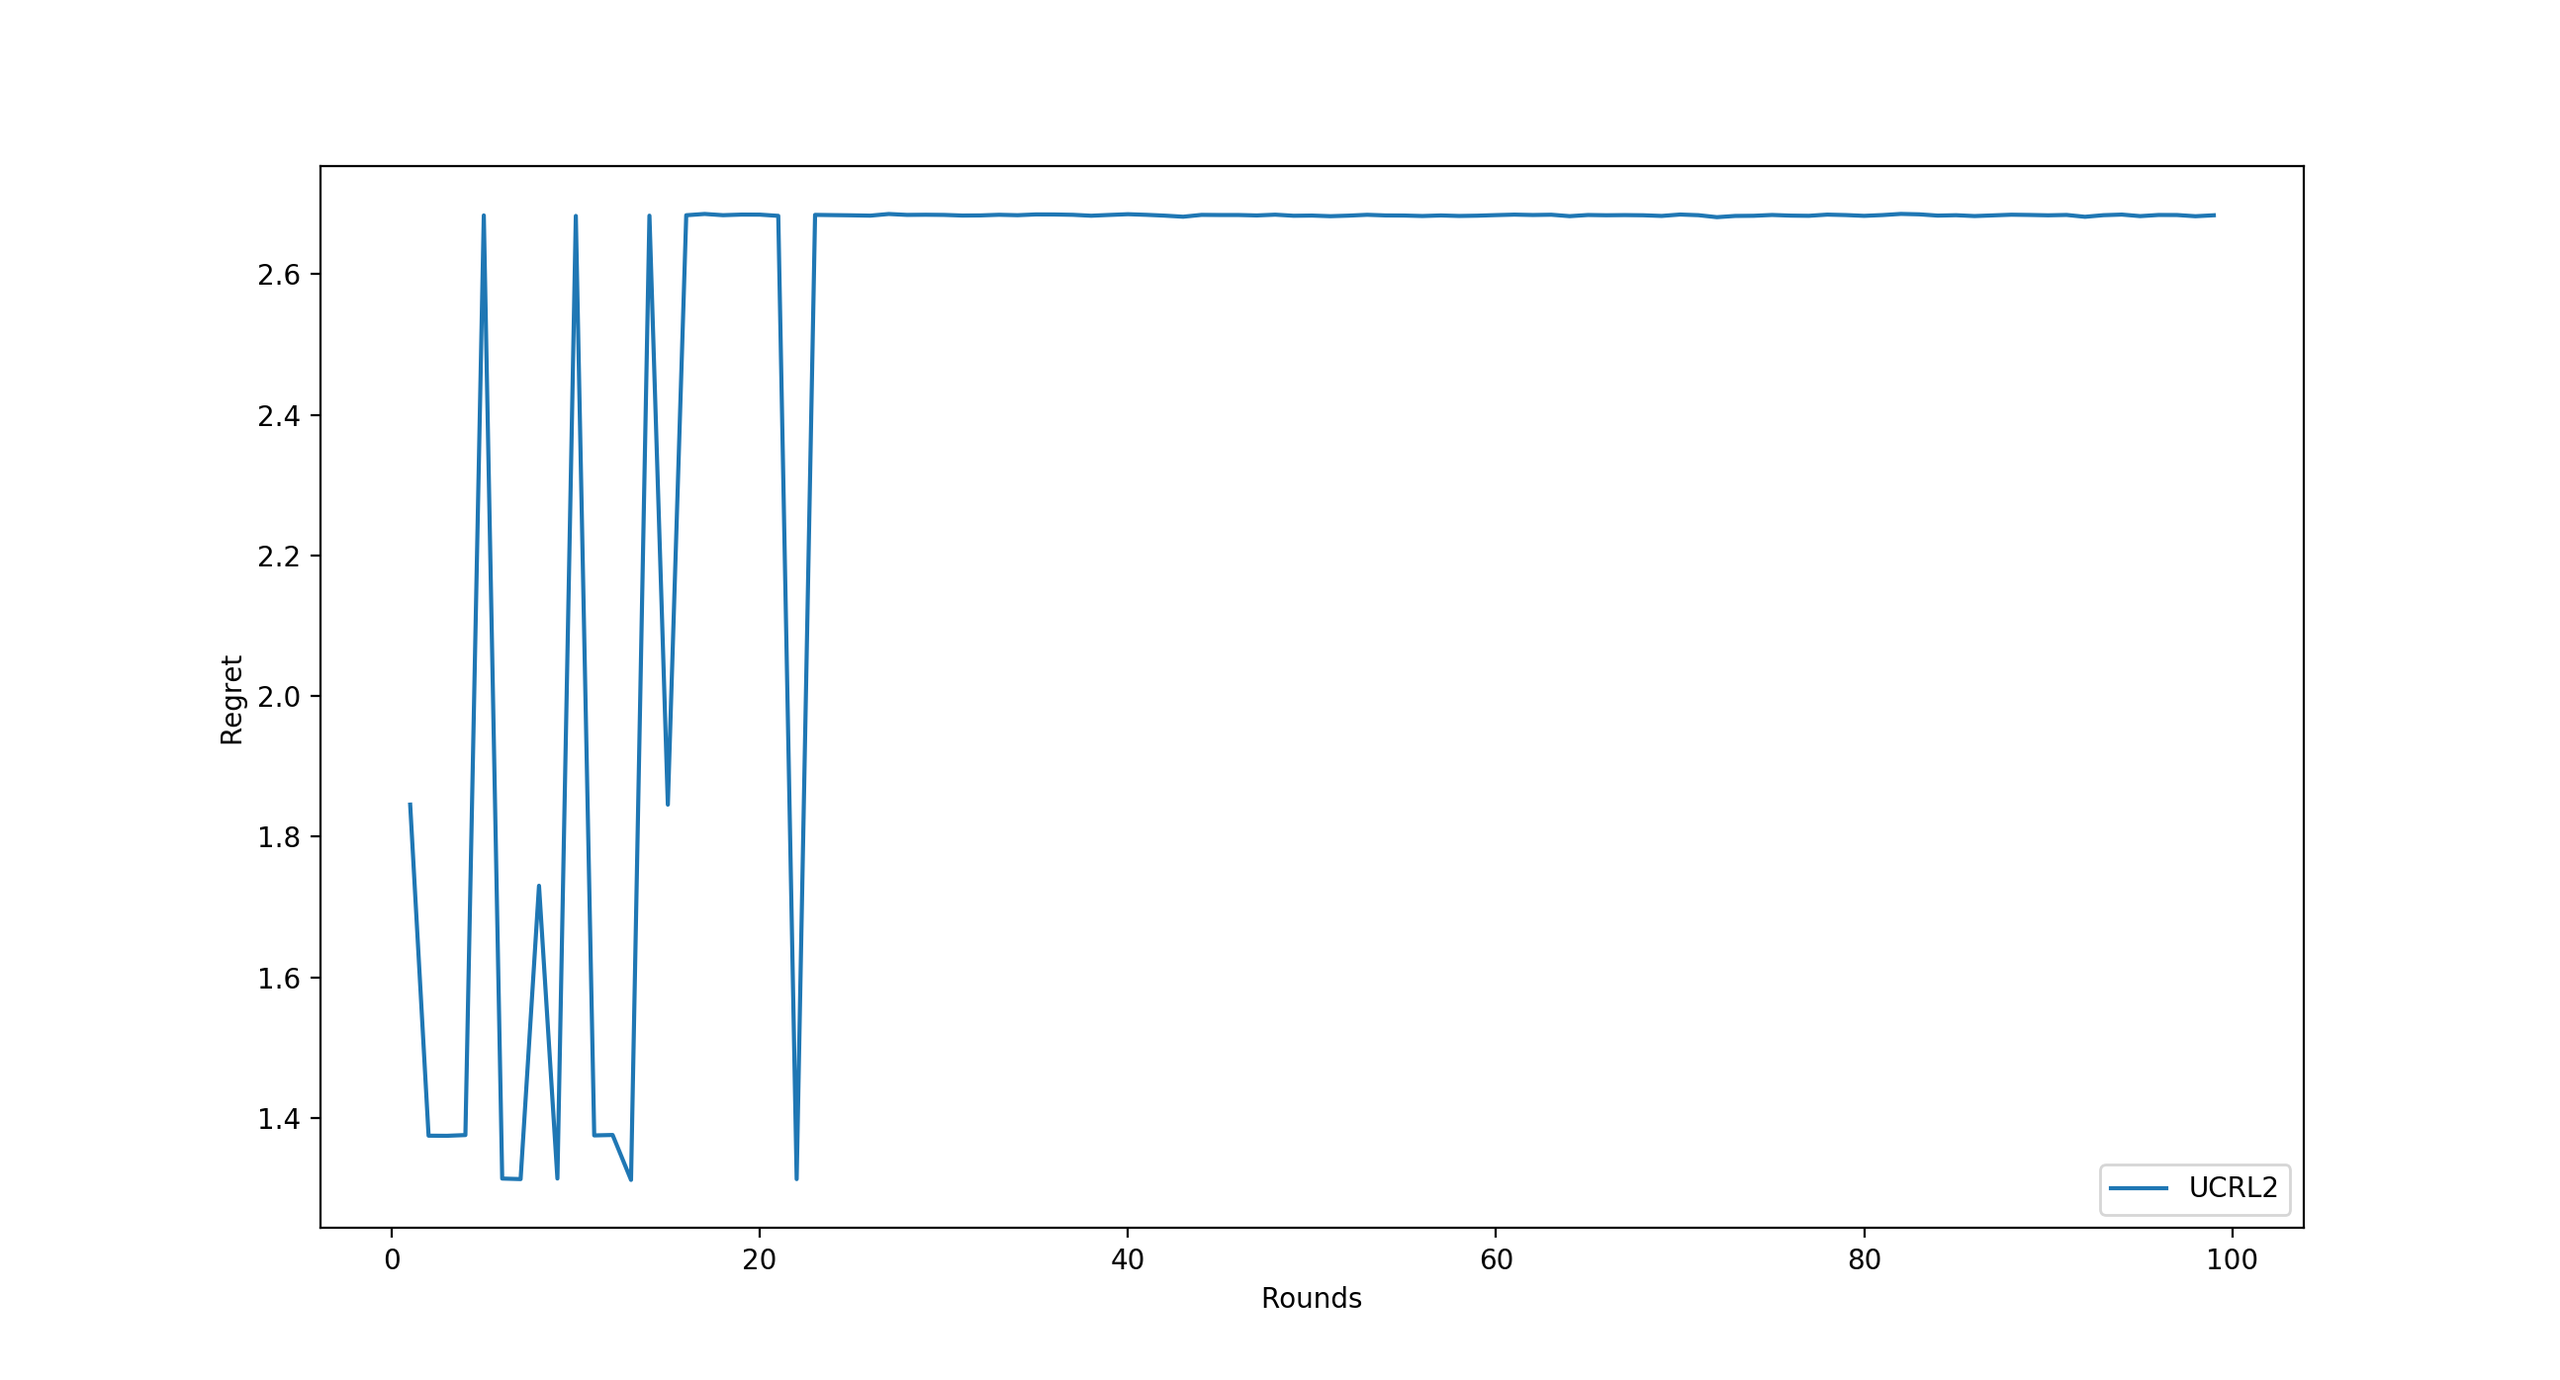
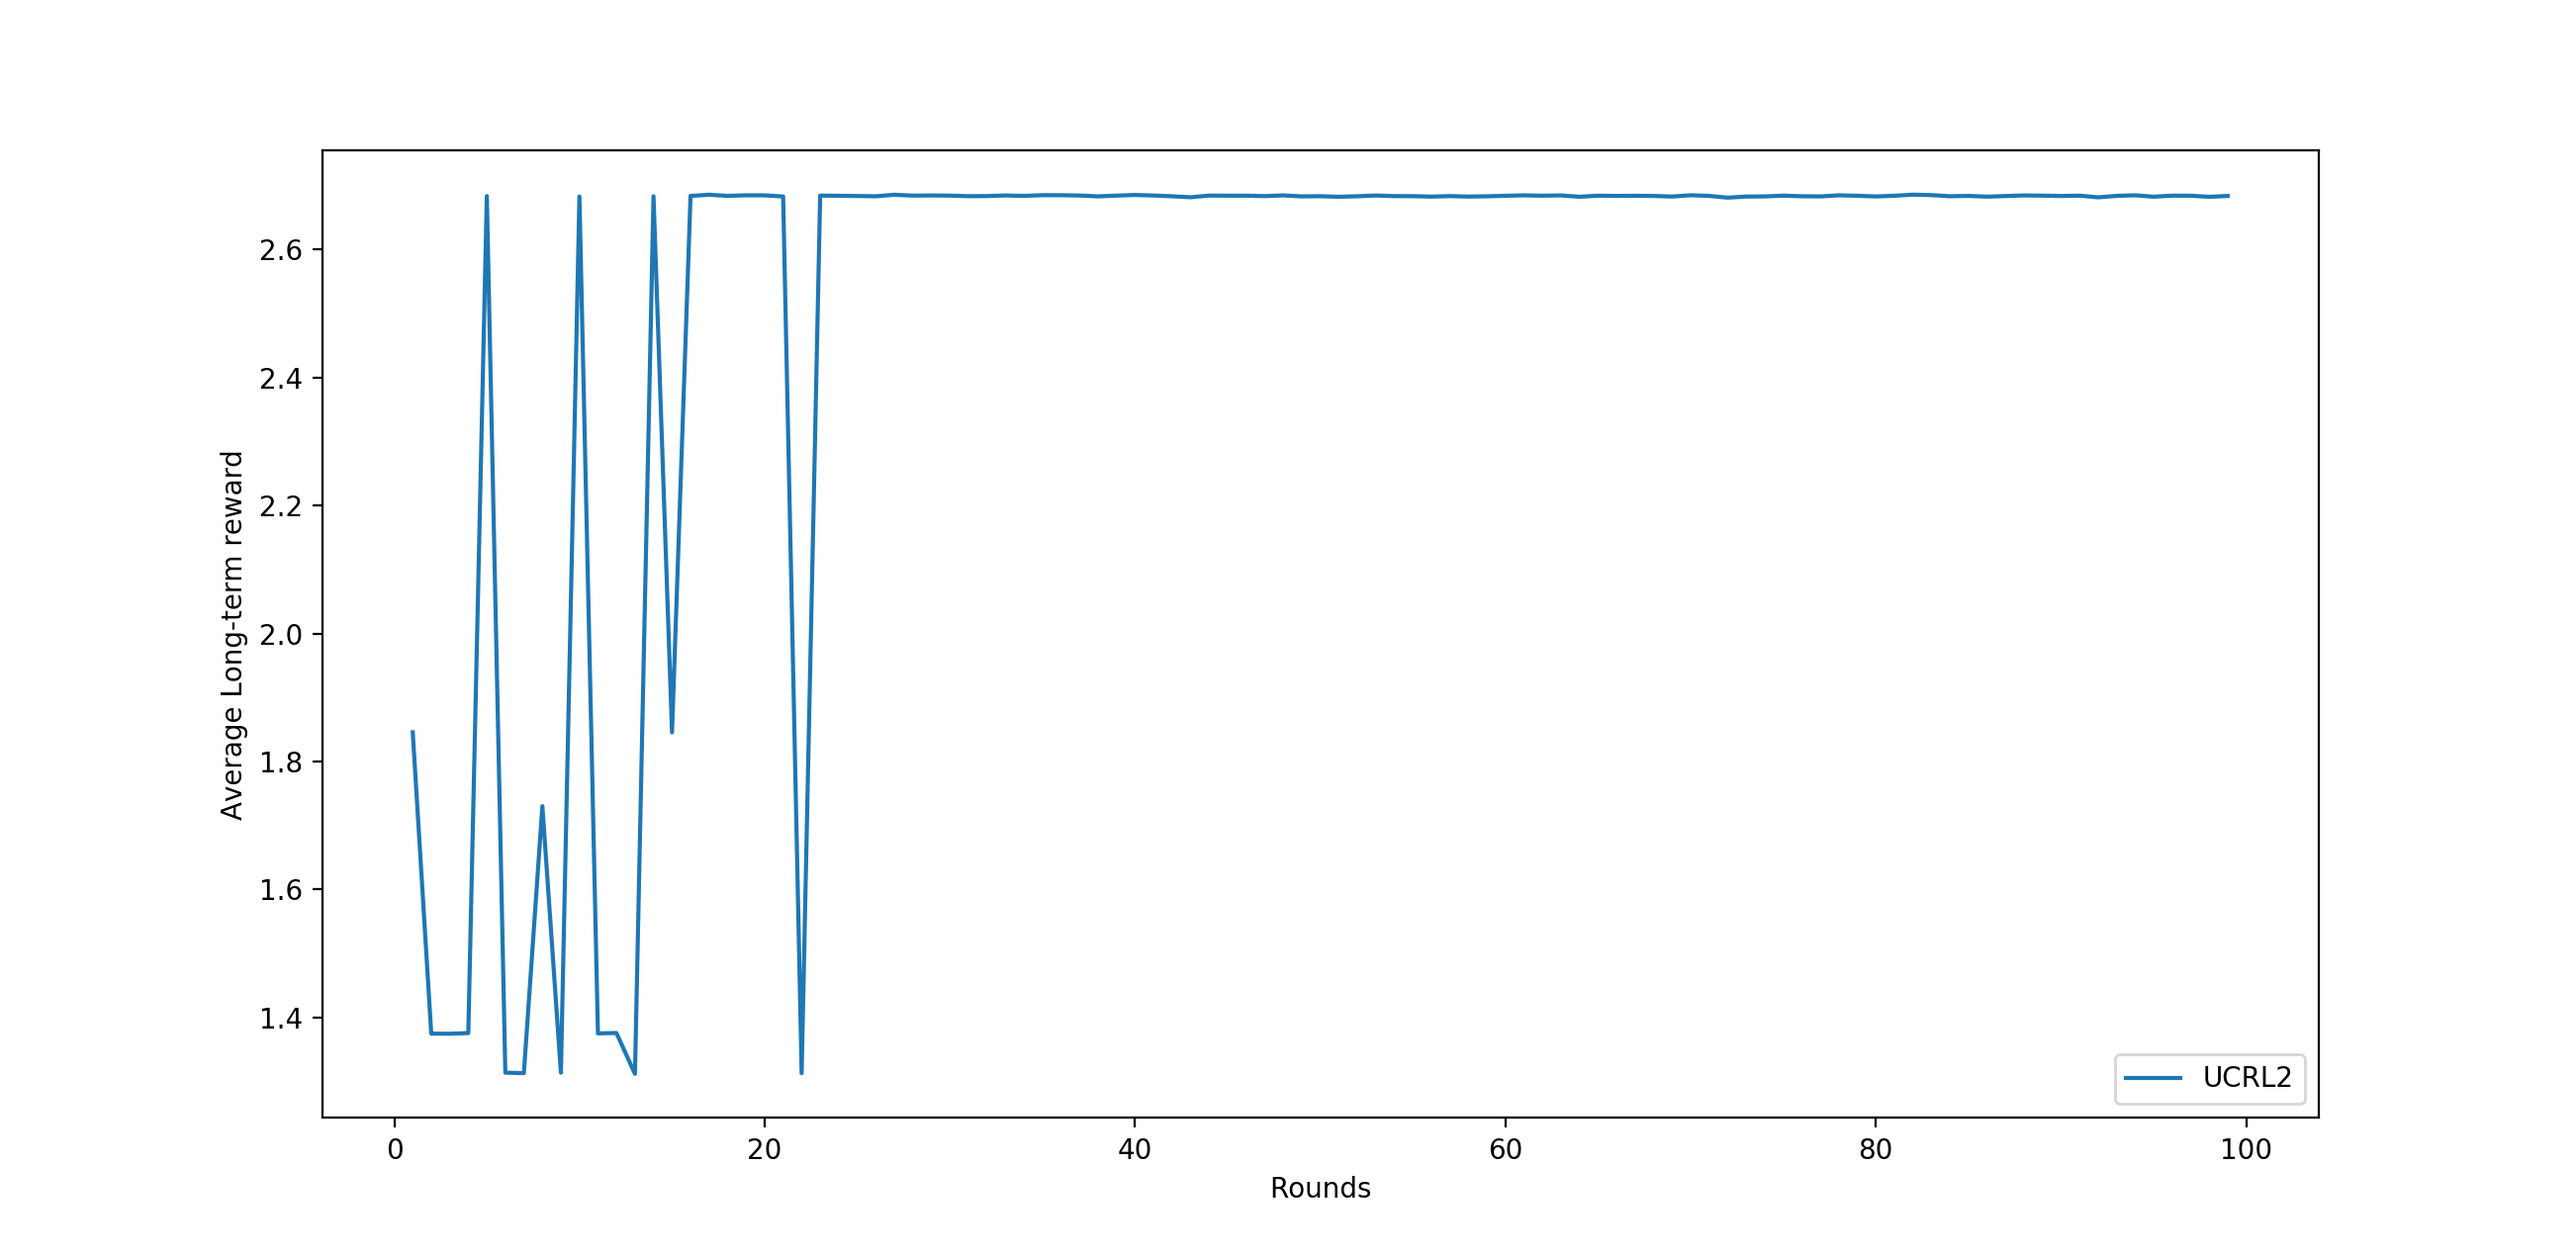
Clean up code and run it

diff --git a/code/algos.py b/code/algos.py
@@ -1,13 +1,7 @@
 """
-This is a collection of some of the classic benchmark algorithms for efficient
-reinforcement learning
-We provide implementations of:
+Implementation of PSRL and UCRL2
 
-- PSRL
-- UCRL2
-
-author: iosband@stanford.edu
-author: Ronan Fruit
+Used Ian Osband and Ronan Fruit's code
 Edit : Jules Kozolinsky
 """
 
@@ -15,33 +9,18 @@ import numpy as np
 import math as m
 import time
 
-def argmax(seq, fn):
-    best = seq[0]; best_score = fn(best)
-    for x in seq:
-        x_score = fn(x)
-        if x_score > best_score:
-            best, best_score = x, x_score
-    return best
 
 class Agent:
     """
-    Simple tabular Bayesian learner from Tabula Rasa.
-
-    Child agents will mainly implement:
-        update_policy
+    Learning Agent (Childs: UCRL2 and PSRL)
     """
 
     def __init__(self, env, r_max):
         """
-        Args:
-            env: environment
-            r_max - maximum reward
-            # alpha0 - prior weight for uniform Dirichlet
-            # mu0 - prior mean rewards
-            # tau0 - precision of prior mean rewards
+        Initialize our learning agent
 
-        Returns:
-            Learner
+        :param env: RL environment
+        :r_max: upper bound of environment reward
         """
         self.n_states = env.n_states
         self.n_actions = env.n_actions
@@ -52,8 +31,11 @@ class Agent:
         self.iteration = 0
         self.delta = 1
 
+        # mu0 - prior mean rewards
         self.mu0 = self.r_max + 99.
+        # tau0 - precision of prior mean rewards
         self.tau0 = 1.
+        # alpha0 - prior weight for uniform Dirichlet
         self.alpha0 = 1.
 
         # Now make the prior beliefs
@@ -65,26 +47,36 @@ class Agent:
                 self.P_prior[state, action] = (
                     self.alpha0 * np.ones(self.n_states, dtype=np.float32))
 
+        # Keep trace of number of observations
         self.nb_observations = np.zeros((n_states, n_actions), dtype=np.int64)
         self.nu_k = np.zeros((n_states, n_actions), dtype=np.int64)
 
         # initialize policy
         self.policy = np.zeros((n_states,), dtype=np.int_) # initial policy
-        self.rho_star = env.compute_LTAR(env.pi_star, 100000)
+
+        if hasattr(env, 'pi_star'):
+            self.rho_star = env.compute_LTAR(env.pi_star, 100000)
+        else:
+            print("Pi star is not known")
 
     def pick_action(self, state):
         """
         Use policy for action selection
+
+        :param state: current state in which we want to know the corresponding
+        action
+        :return: action from policy
         """
         action = self.policy[state]
         return action
 
-    def update_estimations(self, s, s2, r, absorb, t):
+    def update_models(self, s, s2, r, absorb):
         """
+        Update model during execution of policy
+
         :param s: current state
         :param s2: new state
         :param r: reward
-        :param t: timestep
         """
         a = self.policy[s]
 
@@ -104,17 +96,25 @@ class Agent:
         self.iteration += 1
 
     def execute_policy(self, env, max_duration):
+        """
+        Execute policy in the environment during max time of max_duration
+
+        :param env: given RL environment
+        :param max_duration: maximum execution time
+        """
+        # Initialize env
         state = env.reset()
         action = self.pick_action(state)
         t = 0
         while (self.nu_k[state][action] < max(1, self.nb_observations[state][action])\
                 and t < max_duration):
+            t += 1 # Avoid infinite loop
+
             # Step through the episode
             new_state, reward, absorb = env.step(state, action)
 
             # Update estimations at each step
-            t = env.timestep
-            self.update_estimations(state, new_state, reward, absorb, t)
+            self.update_models(state, new_state, reward, absorb)
             state = new_state
 
             # Select next action
@@ -170,9 +170,6 @@ class PSRL(Agent):
         """
         Returns a single sampled MDP from the posterior.
 
-        Args:
-            NULL
-
         Returns:
             R_samp - R_samp[s, a] is the sampled mean reward for (s,a)
             P_samp - P_samp[s, a] is the sampled transition vector for (s,a)
@@ -197,17 +194,13 @@ class PSRL(Agent):
 
         # Compute optimistic policy
         epsilon = self.delta # desired accuracy
-        t0 = time.time()
         span_value = self.value_iteration(P_samp, R_samp, epsilon)
-        t1 = time.time()
 
 #-----------------------------------------------------------------------------
 # UCRL2
 #-----------------------------------------------------------------------------
 
 class UCRL2(Agent):
-    """Classic benchmark optimistic algorithm"""
-
     def __init__(self, env, r_max):
         super(UCRL2, self).__init__(env, r_max)
         self.name = "UCRL2"
@@ -307,6 +300,9 @@ class UCRL2(Agent):
                 sorted_indices = np.argsort(u1)
 
     def estimated_mdp(self):
+        """
+        Returns estimated MDP from the prior.
+        """
         R_hat = {}
         P_hat = {}
         for s in range(self.n_states):

diff --git a/code/experiment.py b/code/experiment.py
@@ -1,6 +1,4 @@
-"""
-Script to run simple RL experiments.
-"""
+""" Implementation of an xperiment """
 
 import numpy as np
 import matplotlib.pyplot as plt
@@ -19,13 +17,13 @@ def run_experiment(agent, env, nb_simu, N_samples, seed=1):
     """
     np.random.seed(seed)
     T_max = 100000
-    max_duration = 50
+    max_duration = 5000#50
 
     E_eps_mean = []
     for k in tqdm(range(nb_simu), desc="Simulating {}".format(agent.name)):
         # Compute policy π ̃k:
         agent.update_policy()
-
+        print(agent.policy)
         # Execute policy π ̃k on environnement during a max of max_duration:
         agent.execute_policy(env, max_duration)
 
@@ -36,12 +34,11 @@ def run_experiment(agent, env, nb_simu, N_samples, seed=1):
             E_list.append(E)
         E_mean = np.array(E_list).mean()
         E_var = np.array(E_list).var()
-        print(E_mean)
         E_eps_mean.append(E_mean)
 
     x = np.arange(1, nb_simu+1)
     plt.plot(x, E_eps_mean, label = agent.name)
     plt.xlabel('Rounds')
-    plt.ylabel('Regret')
+    plt.ylabel('Average Long-term reward')
     plt.legend()
     plt.show()

diff --git a/code/environment.py b/code/environment.py
@@ -1,5 +1,5 @@
 """
-Implementation of a basic RL environment.
+Implementation of a basic RL environments.
 
 author: iosband@stanford.edu
 Edit : Jules Kozolinsky
@@ -138,9 +138,6 @@ class MDP(Environment):
             cumul_reward += reward
             state = nexts
             action = policy[state]
-            if (term):
-                print('Not implemented for finite horizon MDP')
-                break
         return cumul_reward/T_max
 
     def compute_regret(self, policy, T_max):

diff --git a/code/run_exp.py b/code/run_exp.py
@@ -1,8 +1,11 @@
+""" Script to be run from terminal to launch experiment """
+
 import env_examples as env
 import algos as ag
 import experiment as exp
 
-env_TP1 = env.make_MDP_TP1()
+# env_TP1 = env.make_MDP_TP1()
+env_TP1 = env.make_riverSwim()
 max_reward = 5
 agent = ag.PSRL(env_TP1, max_reward)
 # agent = ag.UCRL2(env_TP1, max_reward)
@@ -11,4 +14,4 @@ N = 99
 # N = 100
 exp.run_experiment(agent, env_TP1, N, 100)
 print(agent.policy)
-print(env_TP1.pi_star)
+# print(env_TP1.pi_star)

diff --git a/code/env_examples.py b/code/env_examples.py
@@ -2,7 +2,6 @@
 
 from environment import *
 
-
 def make_MDP_TP1():
     """ MDP from TP1 RL """
     n_states = 3

diff --git a/README.md b/README.md
@@ -16,3 +16,8 @@ Description:  The Exploration-Exploitation trade-off is a fundamental dilemma in
 [1] Osband Ian, Van Roy Benjamin, and Russo Daniel. (More) efficient reinforcement learning via posterior sampling. In Proceedings of the 26th International Conference on Neural Information Processing Systems - Volume 2 (NIPS'13), Vol. 2. Curran Associates Inc., USA, 3003-3011, 2013.
 
 [2] Peter L. Bartlett and Ambuj Tewari. REGAL: a regularization based algorithm for reinforcement learning in weakly communicating MDPs. In Proceedings of the Twenty-Fifth Conference on Uncertainty in Artificial Intelligence (UAI '09). AUAI Press, Arlington, Virginia, United States, 35-42, 2009.
+
+## Usage
+Require `tqdm` for displaying progression.
+
+Run : `python3 run_exp.py`
